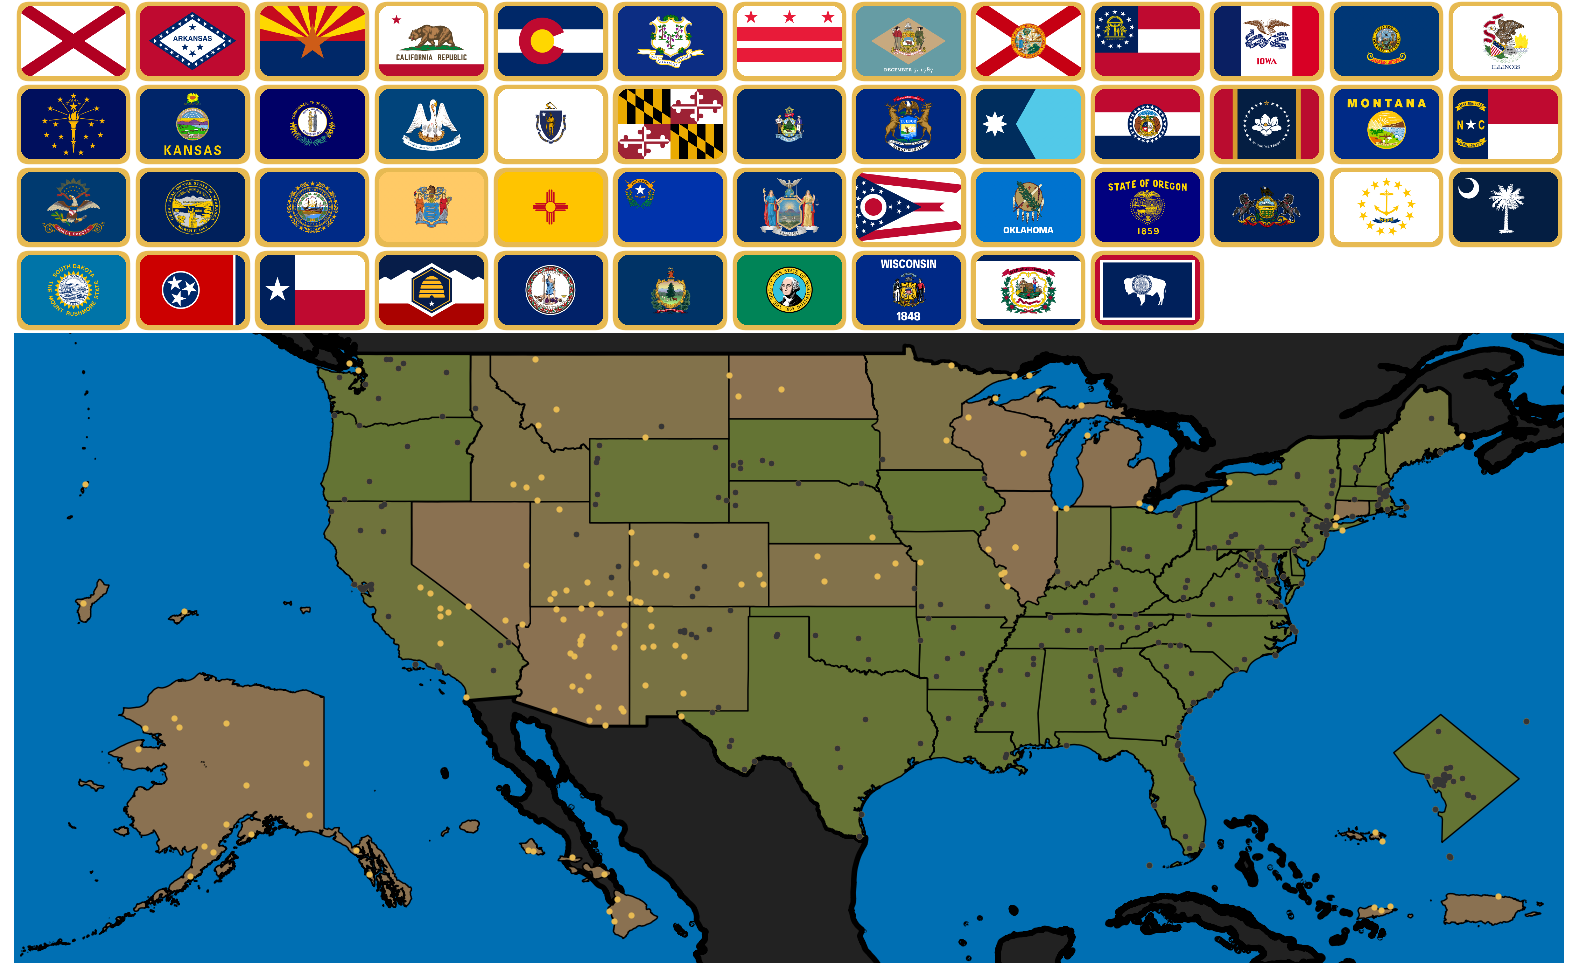
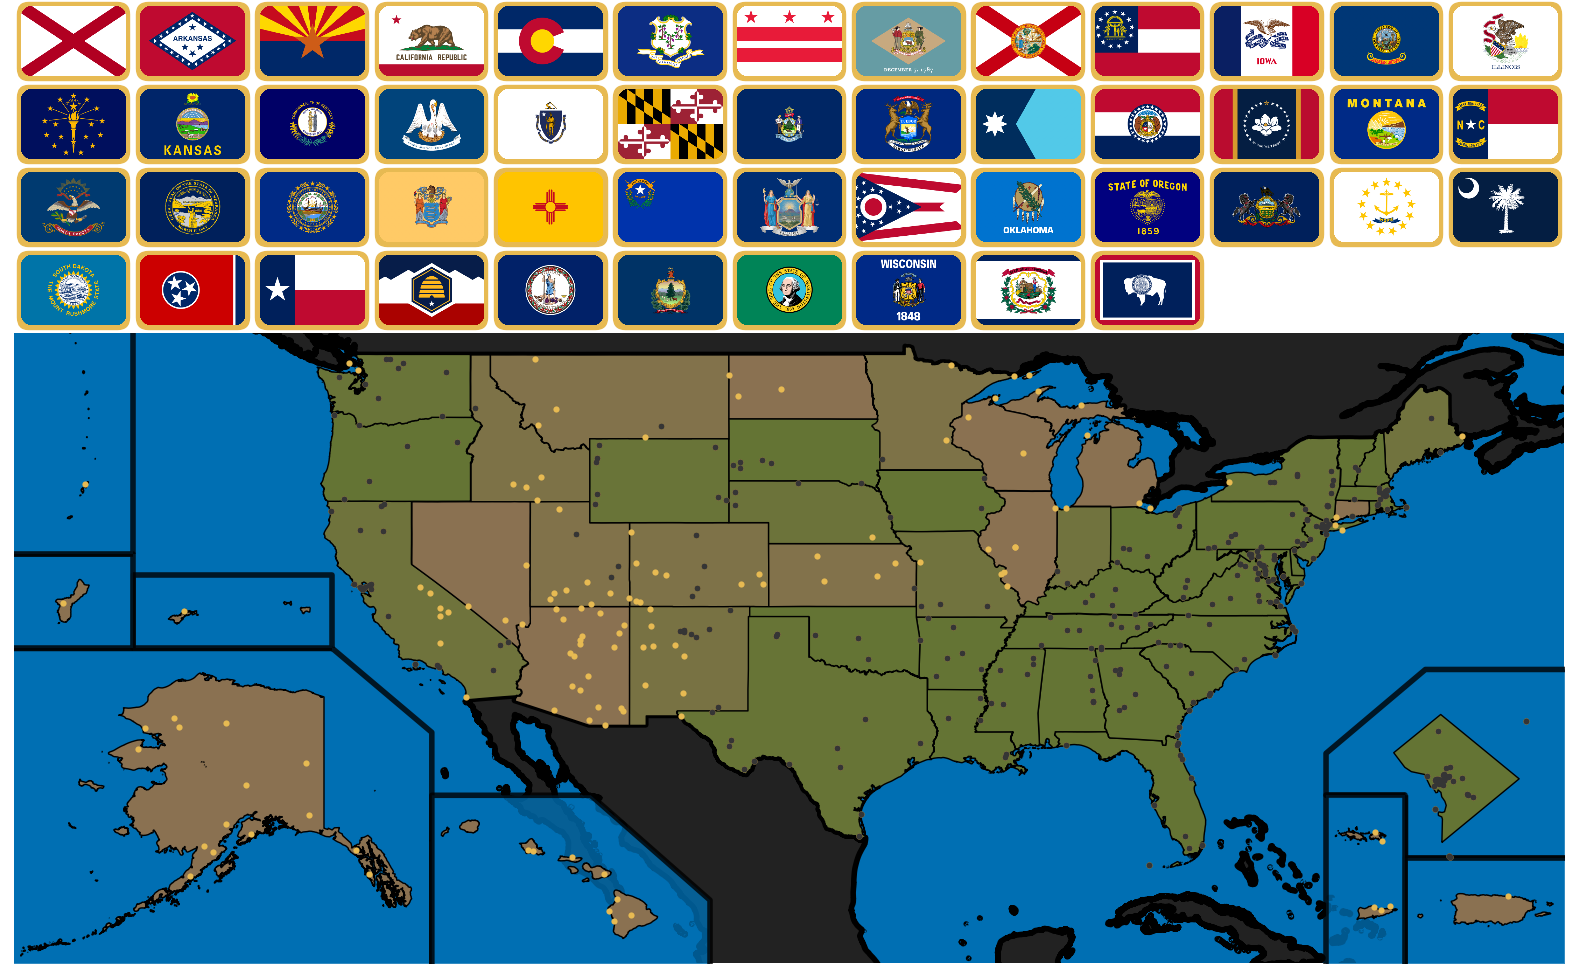
add backgrounds for shifted maps

diff --git a/plotting/plotting_manager.py b/plotting/plotting_manager.py
@@ -9,6 +9,7 @@ import matplotlib.patches as patches
 from matplotlib.offsetbox import OffsetImage, AnnotationBbox
 import geopandas as gpd
 from shapely import affinity
+from shapely.geometry import Polygon
 
 from utils.file_utils import (
     crop_and_save_image,
@@ -102,7 +103,23 @@ class PlotManager:
         
         # Submap Plotting
         for submap in self.submaps:
-            #print(submap["Name"])
+
+            # Plot Backing to Shifted Submaps
+            if submap["Shift"][0] != 0 and submap["Shift"][1] != 0:
+            # If list is [[lon, lat], ...]
+                coords = [(p[0], p[1]) for p in submap["BG"]]
+
+                polygon = Polygon(coords)
+
+                gdf = gpd.GeoDataFrame(geometry=[polygon])
+
+                gdf.plot(
+                    ax=ax,
+                    color=self.bg_water,
+                    alpha=0.8,
+                    edgecolor="black",
+                    linewidth=4/self.plot_scale
+                )
 
             map_i = submap["Name"]
             scale = submap["Scale"]
